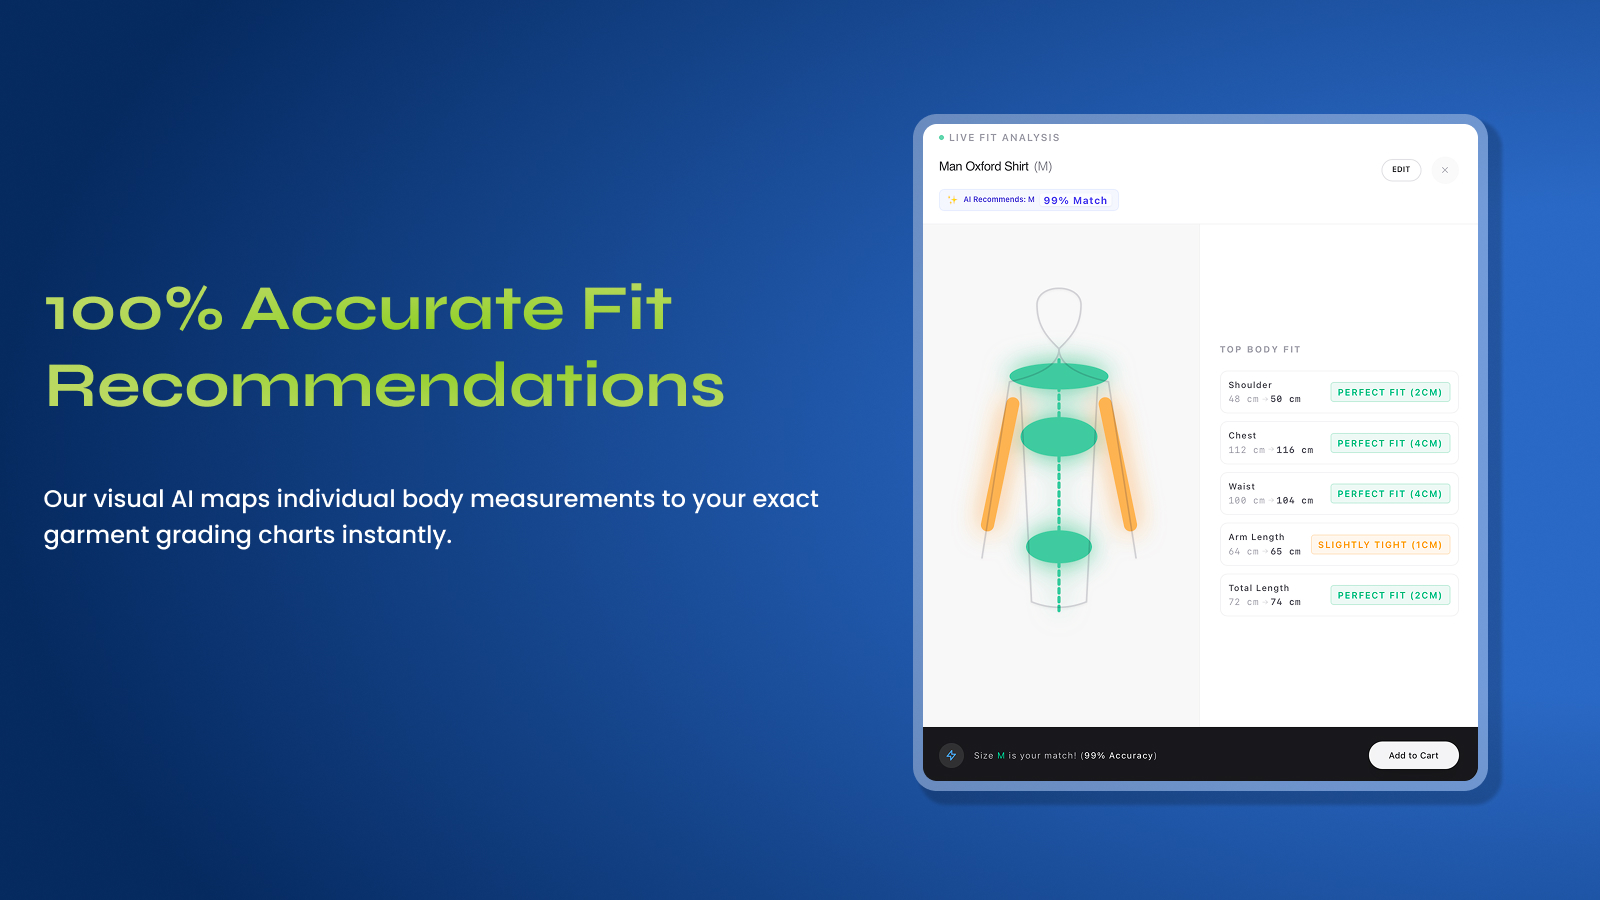
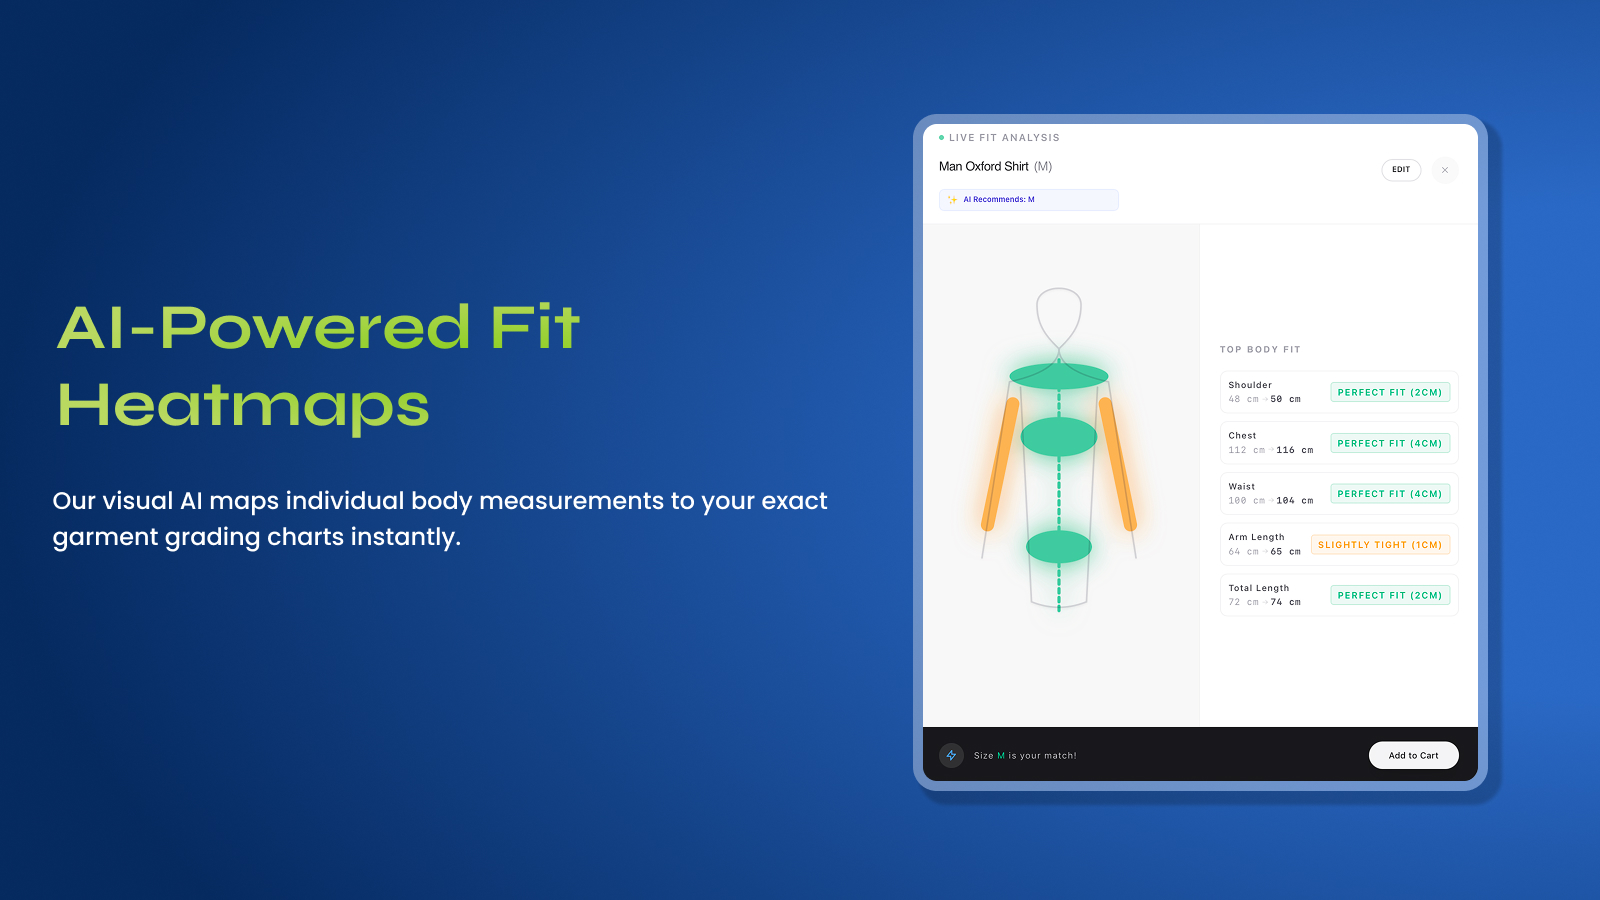
Fix Shopify App Pricing, widget crash, Dashboard sync, and API scan errors

Changed region(s): [[0.0312, 0.3111, 0.4688, 0.4978], [0.0312, 0.5289, 0.5312, 0.6222], [0.6562, 0.2178, 0.6875, 0.2489]]

diff --git a/size-passport-app/app/routes/api.scan.jsx b/size-passport-app/app/routes/api.scan.jsx
@@ -14,15 +14,19 @@ export const action = async ({ request }) => {
   }
 
   try {
-    // 1. Fetch images from Shopify
+    // 1. Fetch images from Shopify using the modern media API
     const response = await admin.graphql(
       `#graphql
-      query getProductImages($id: ID!) {
+      query getProductMedia($id: ID!) {
         product(id: $id) {
-          images(last: 2) {
+          media(first: 10) {
             edges {
               node {
-                url
+                ... on MediaImage {
+                  image {
+                    url
+                  }
+                }
               }
             }
           }
@@ -31,15 +35,22 @@ export const action = async ({ request }) => {
       { variables: { id: `gid://shopify/Product/${shopifyProductId}` } }
     );
 
-    const { data } = await response.json();
-    const images = data.product?.images?.edges || [];
+    const { data, errors } = await response.json();
     
-    if (images.length === 0) {
+    if (errors || !data?.product) {
+      console.error("GraphQL Error:", errors);
+      return Response.json({ success: false, error: "Could not find product on Shopify. (Missing permissions or deleted)" });
+    }
+
+    const mediaEdges = data.product.media?.edges || [];
+    const imageEdges = mediaEdges.filter(edge => edge.node?.image?.url);
+
+    if (imageEdges.length === 0) {
       return Response.json({ success: false, error: "No images found for this product." });
     }
 
     // Genelde beden tablosu son resimdedir. Son resmi al.
-    const imageUrl = images[images.length - 1].node.url;
+    const imageUrl = imageEdges[imageEdges.length - 1].node.image.url;
 
     // 2. Fetch the image to buffer
     const imgResponse = await fetch(imageUrl);

diff --git a/size-passport-app/app/partner-api.server.js b/size-passport-app/app/partner-api.server.js
@@ -1,0 +1,51 @@
+export async function fetchActiveSubscription(shopId) {
+  // Gerekli çevresel değişkenlerin yüklü olduğundan emin olun
+  const partnerToken = process.env.SHOPIFY_PARTNER_API_ACCESS_TOKEN;
+  const orgId = process.env.SHOPIFY_PARTNER_ORG_ID;
+  const appId = process.env.SHOPIFY_APP_GID; // Örn: gid://shopify/App/1234567
+
+  if (!partnerToken || !orgId || !appId) {
+    console.warn("EKSİK BİLGİ: Shopify Partner API değişkenleri (.env) tanımlanmamış. Abonelik kontrolü atlanıyor (Test modunda geçici izin).");
+    return true; // Test aşamasında uygulamayı tamamen kitlememek için geçici olarak true dönebiliriz. Ancak canlıya almadan önce .env düzeltilmeli.
+  }
+
+  const query = `
+    query ActiveSubscription($appId: ID!, $shopId: ID!) {
+      activeSubscription(appId: $appId, shopId: $shopId) {
+        billingPeriod
+        items {
+          handle
+          price {
+            ... on FlatRatePrice { amount }
+          }
+        }
+      }
+    }
+  `;
+
+  try {
+    const response = await fetch(`https://partners.shopify.com/${orgId}/api/2026-07/graphql.json`, {
+      method: "POST",
+      headers: {
+        "Content-Type": "application/json",
+        "X-Shopify-Access-Token": partnerToken,
+      },
+      body: JSON.stringify({
+        query,
+        variables: { appId, shopId },
+      }),
+    });
+
+    const json = await response.json();
+
+    if (json.errors) {
+      console.error("Partner API Error:", json.errors);
+      return null;
+    }
+
+    return json.data?.activeSubscription;
+  } catch (error) {
+    console.error("Failed to fetch active subscription:", error);
+    return null;
+  }
+}

diff --git a/size-passport-app/app/routes/app.jsx b/size-passport-app/app/routes/app.jsx
@@ -2,14 +2,33 @@ import { Outlet, useLoaderData, useRouteError } from "react-router";
 import { boundary } from "@shopify/shopify-app-react-router/server";
 import { AppProvider } from "@shopify/shopify-app-react-router/react";
 import { authenticate } from "../shopify.server";
+import { fetchActiveSubscription } from "./partner-api.server";
 
 import { supabase } from "../supabase.server";
 import { t } from "../lib/i18n";
 
 /* global process */
 export const loader = async ({ request }) => {
-  const { billing, session } = await authenticate.admin(request);
+  const { admin, session, redirect } = await authenticate.admin(request);
   
+  // App Handle: Shopify Partner Dashboard'daki uygulama adınız (URL'deki uzantı)
+  const appHandle = process.env.SHOPIFY_APP_HANDLE || "size-passport"; 
+  const storeHandle = session.shop.replace(".myshopify.com", "");
+
+  const shopResponse = await admin.graphql(`{ shop { id } }`);
+  const shopResponseJson = await shopResponse.json();
+  const shopId = shopResponseJson.data?.shop?.id;
+
+  if (shopId) {
+    const subscription = await fetchActiveSubscription(shopId);
+    
+    // Aktif bir abonelik yoksa (ve Partner API ayarları yapılmışsa) plana yönlendir.
+    if (!subscription && process.env.SHOPIFY_PARTNER_API_ACCESS_TOKEN) {
+      return redirect(`https://admin.shopify.com/store/${storeHandle}/charges/${appHandle}/pricing_plans`, {
+        target: "_top", // Uygulama dışı bir Shopify sayfasına yönlendirdiğimiz için _top olmalı
+      });
+    }
+  }
 
   // Fetch language from Supabase
   let lang = 'en';

diff --git a/size-passport-app/app/routes/webhooks.app.uninstalled.jsx b/size-passport-app/app/routes/webhooks.app.uninstalled.jsx
@@ -2,14 +2,19 @@ import { authenticate } from "../shopify.server";
 import db from "../db.server";
 
 export const action = async ({ request }) => {
-  const { shop, session, topic } = await authenticate.webhook(request);
+  try {
+    const { shop, session, topic } = await authenticate.webhook(request);
 
-  console.log(`Received ${topic} webhook for ${shop}`);
+    console.log(`Received ${topic} webhook for ${shop}`);
 
-  // Webhook requests can trigger multiple times and after an app has already been uninstalled.
-  // If this webhook already ran, the session may have been deleted previously.
-  if (session) {
-    await db.session.deleteMany({ where: { shop } });
+    // Webhook requests can trigger multiple times and after an app has already been uninstalled.
+    // If this webhook already ran, the session may have been deleted previously.
+    if (session) {
+      await db.session.deleteMany({ where: { shop } });
+    }
+  } catch (error) {
+    console.error("Webhook processing error:", error);
+    // Daima 200 dön ki Shopify inceleme ekibi 500 hatası görmesin.
   }
 
   return new Response();

diff --git a/size-passport-app/app/shopify.server.js b/size-passport-app/app/shopify.server.js
@@ -10,8 +10,6 @@ import {
 import { PrismaSessionStorage } from "@shopify/shopify-app-session-storage-prisma";
 import prisma from "./db.server";
 
-export const MONTHLY_PLAN = 'monthly-subscription';
-
 const shopify = shopifyApp({
   apiKey: process.env.SHOPIFY_API_KEY,
   apiSecretKey: process.env.SHOPIFY_API_SECRET || "",
@@ -21,19 +19,6 @@ const shopify = shopifyApp({
   authPathPrefix: "/auth",
   sessionStorage: new PrismaSessionStorage(prisma),
   distribution: AppDistribution.AppStore,
-  billing: {
-    [MONTHLY_PLAN]: {
-      lineItems: [
-        {
-          amount: 14.99,
-          currencyCode: 'USD',
-          interval: BillingInterval.Every30Days,
-        }
-      ],
-      trialDays: 14,
-      replacementBehavior: BillingReplacementBehavior.ApplyImmediately,
-    },
-  },
   webhooks: {
     APP_UNINSTALLED: {
       deliveryMethod: DeliveryMethod.Http,

diff --git a/size-passport-app/app/routes/app.products.$id.jsx b/size-passport-app/app/routes/app.products.$id.jsx
@@ -90,6 +90,13 @@ export const action = async ({ request, params }) => {
       console.error("Supabase Error:", error);
       return { error: error.message };
     }
+    
+    // Ürünün statüsünü ACTIVE olarak güncelle ki dashboard'da Missing Data yazmasın
+    await supabase
+      .from("merchant_products")
+      .update({ size_status: 'ACTIVE', data_source: 'MANUAL' })
+      .eq("id", id);
+      
   } else if (actionType === "update_category") {
     const category = formData.get("category");
     const { error } = await supabase

diff --git a/frontend/vite.config.js b/frontend/vite.config.js
@@ -4,6 +4,9 @@ import react from '@vitejs/plugin-react'
 
 export default defineConfig({
   plugins: [react()],
+  define: {
+    'process.env': {}
+  },
   resolve: {
     alias: {
       "@": path.resolve(__dirname, "./src"),
